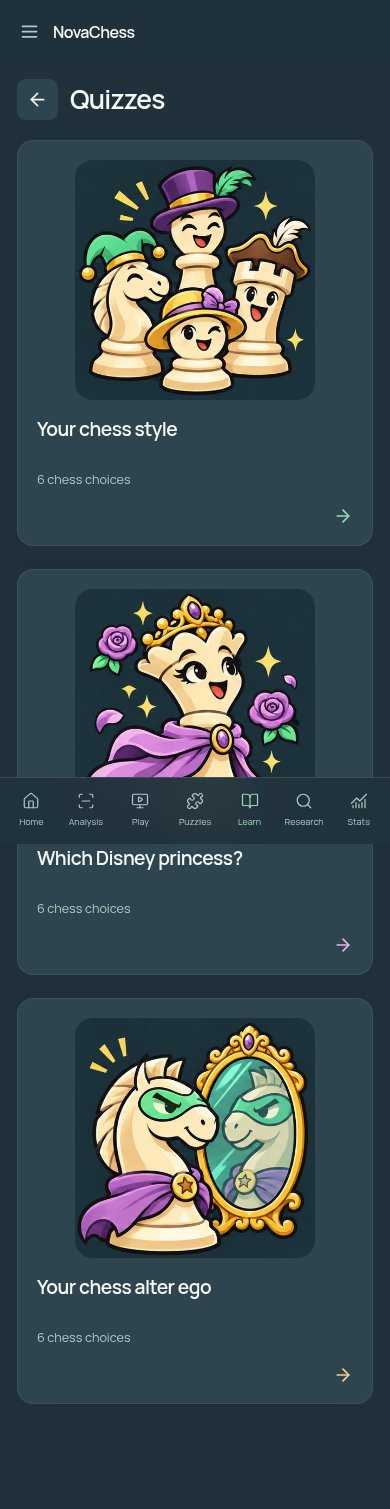
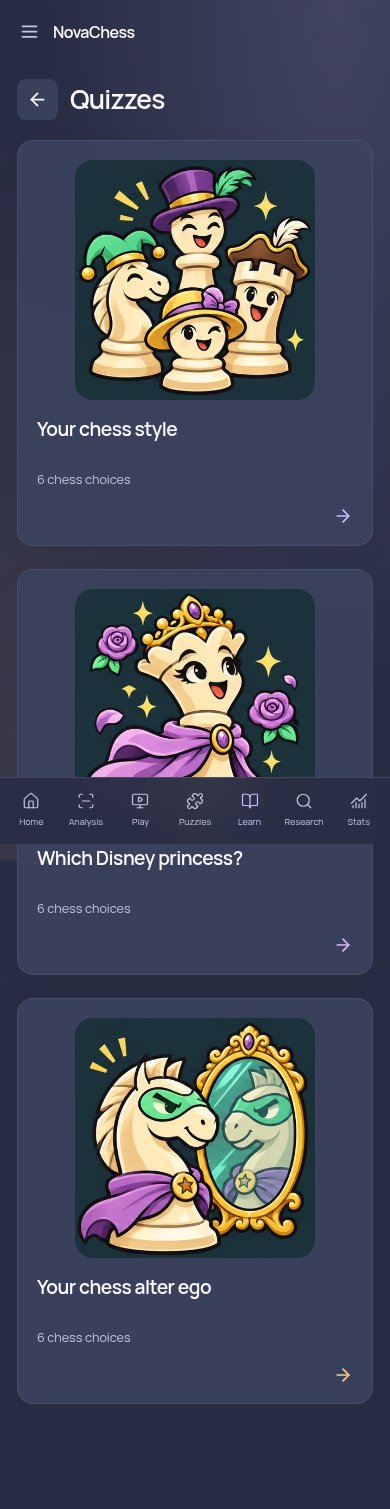
Refresh default theme with periwinkle and apricot accents

diff --git a/src/main.tsx b/src/main.tsx
@@ -259,26 +259,52 @@ function App() {
   }, [appearance.sound, appearance.volume]);
   useEffect(() => {
     setAppearance((a) =>
-      a.backgroundColor === "#80350d"
-        ? { ...a, backgroundColor: defaults.backgroundColor }
-        : ["#101418", "#101612", "#19262e"].includes(a.backgroundColor) &&
-            ["#1b2126", "#1c271f", "#263840"].includes(a.panelColor) &&
-            ["#f0f3f1", "#eef4ed", "#f4f8f5"].includes(a.textColor) &&
-            ["#a6b0aa", "#abb8aa", "#b5c8c5"].includes(a.mutedColor)
-          ? {
-              ...a,
-              backgroundColor: defaults.backgroundColor,
-              panelColor: defaults.panelColor,
-              textColor: defaults.textColor,
-              mutedColor: defaults.mutedColor,
-              accent: a.accent === "#78b58a" ? defaults.accent : a.accent,
-              buttonColor:
-                a.buttonColor === "#78b58a"
-                  ? defaults.buttonColor
-                  : a.buttonColor,
-              font: a.font === "DM Sans" ? defaults.font : a.font,
-            }
-          : a,
+      a.background === "Default" &&
+      a.backgroundColor === "#20313b" &&
+      a.panelColor === "#304651" &&
+      a.textColor === "#f4f8f5" &&
+      a.mutedColor === "#b5c8c5"
+        ? {
+            ...a,
+            backgroundColor: defaults.backgroundColor,
+            panelColor: defaults.panelColor,
+            textColor: defaults.textColor,
+            mutedColor: defaults.mutedColor,
+            theme:
+              a.theme === "Forest" && a.accent === "#96d9b8"
+                ? defaults.theme
+                : a.theme,
+            accent:
+              a.theme === "Forest" && a.accent === "#96d9b8"
+                ? defaults.accent
+                : a.accent,
+            buttonColor:
+              a.theme === "Forest" &&
+              a.accent === "#96d9b8" &&
+              a.buttonColor === "#96d9b8"
+                ? defaults.buttonColor
+                : a.buttonColor,
+          }
+        : a.backgroundColor === "#80350d"
+          ? { ...a, backgroundColor: defaults.backgroundColor }
+          : ["#101418", "#101612", "#19262e"].includes(a.backgroundColor) &&
+              ["#1b2126", "#1c271f", "#263840"].includes(a.panelColor) &&
+              ["#f0f3f1", "#eef4ed", "#f4f8f5"].includes(a.textColor) &&
+              ["#a6b0aa", "#abb8aa", "#b5c8c5"].includes(a.mutedColor)
+            ? {
+                ...a,
+                backgroundColor: defaults.backgroundColor,
+                panelColor: defaults.panelColor,
+                textColor: defaults.textColor,
+                mutedColor: defaults.mutedColor,
+                accent: a.accent === "#78b58a" ? defaults.accent : a.accent,
+                buttonColor:
+                  a.buttonColor === "#78b58a"
+                    ? defaults.buttonColor
+                    : a.buttonColor,
+                font: a.font === "DM Sans" ? defaults.font : a.font,
+              }
+            : a,
     );
   }, []);
   useEffect(() => {

diff --git a/tests/theme-refresh.spec.ts b/tests/theme-refresh.spec.ts
@@ -1,0 +1,65 @@
+import { test, expect } from "@playwright/test";
+const previous = {
+  theme: "Forest",
+  background: "Default",
+  backgroundColor: "#20313b",
+  panelColor: "#304651",
+  textColor: "#f4f8f5",
+  mutedColor: "#b5c8c5",
+  accent: "#96d9b8",
+  buttonColor: "#96d9b8",
+  board: "Rose",
+  light: "#f5dfe4",
+  dark: "#a85d77",
+  premoves: false,
+};
+test("returning users receive the refreshed default palette while keeping board and game preferences", async ({
+  page,
+}) => {
+  await page.addInitScript(
+    (a) => localStorage.setItem("novachess-appearance-v2", JSON.stringify(a)),
+    previous,
+  );
+  await page.goto("/");
+  await expect(page.locator(".app")).toHaveCSS("--base", "#292d43");
+  await expect(page.locator(".app")).toHaveCSS("--accent", "#c7c1ff");
+  await expect(page.locator(".app")).toHaveCSS("--button", "#f1bb98");
+  await expect
+    .poll(() =>
+      page.evaluate(
+        () =>
+          JSON.parse(localStorage.getItem("novachess-appearance-v2") || "{}")
+            .theme,
+      ),
+    )
+    .toBe("Periwinkle");
+  const saved = await page.evaluate(() =>
+    JSON.parse(localStorage.getItem("novachess-appearance-v2") || "{}"),
+  );
+  expect(saved.board).toBe("Rose");
+  expect(saved.premoves).toBe(false);
+});
+test("custom colors and uploaded backgrounds remain unchanged", async ({
+  page,
+}) => {
+  const custom = {
+    ...previous,
+    theme: "Ocean",
+    background: "Custom",
+    backgroundColor: "#24243a",
+    panelColor: "#41415b",
+    accent: "#72b2ff",
+    buttonColor: "#ffe0a0",
+  };
+  await page.addInitScript(
+    (a) => localStorage.setItem("novachess-appearance-v2", JSON.stringify(a)),
+    custom,
+  );
+  await page.goto("/");
+  await expect(page.locator(".app")).toHaveCSS(
+    "--base",
+    custom.backgroundColor,
+  );
+  await expect(page.locator(".app")).toHaveCSS("--accent", custom.accent);
+  await expect(page.locator(".app")).toHaveCSS("--button", custom.buttonColor);
+});

diff --git a/tests/website.spec.ts b/tests/website.spec.ts
@@ -36,7 +36,7 @@ test("dark Home provides tools, has no clock/camera/slogans, and fits responsive
   await expect(page.getByRole("link", { name: /Daily puzzle/ })).toBeVisible();
   await expect(page.locator(".app")).toHaveCSS(
     "background-color",
-    "rgb(32, 49, 59)",
+    "rgb(41, 45, 67)",
   );
   await expect(
     page.getByRole("heading", { name: /Your next move|A little brighter/ }),
@@ -110,7 +110,7 @@ test("appearance themes, custom colors, board/pieces/layout persist and presets 
     .getByRole("dialog", { name: "Appearance" })
     .getByRole("button", { name: "Reset appearance", exact: true })
     .click();
-  await expect(page.locator(".app")).toHaveCSS("--accent", "#96d9b8");
+  await expect(page.locator(".app")).toHaveCSS("--accent", "#c7c1ff");
 });
 
 test("uploaded backgrounds stay local and can be removed", async ({ page }) => {

diff --git a/src/lib/store.ts b/src/lib/store.ts
@@ -5,6 +5,7 @@ export const base = import.meta.env.BASE_URL;
 export const initialFen =
   "rnbqkbnr/pppppppp/8/8/8/8/PPPPPPPP/RNBQKBNR w KQkq - 0 1";
 export const themes: Record<string, string> = {
+  Periwinkle: "#c7c1ff",
   Forest: "#96d9b8",
   Pink: "#ef7eb6",
   Ocean: "#72b2ff",
@@ -54,14 +55,14 @@ export const backgrounds = [
   "Flag",
 ];
 export const defaults: Appearance = {
-  theme: "Forest",
+  theme: "Periwinkle",
   background: "Default",
-  backgroundColor: "#20313b",
-  accent: "#96d9b8",
-  buttonColor: "#96d9b8",
-  textColor: "#f4f8f5",
-  mutedColor: "#b5c8c5",
-  panelColor: "#304651",
+  backgroundColor: "#292d43",
+  accent: "#c7c1ff",
+  buttonColor: "#f1bb98",
+  textColor: "#fbf8ff",
+  mutedColor: "#c6c7dc",
+  panelColor: "#3b425d",
   board: "Classic",
   light: boards.Classic[0],
   dark: boards.Classic[1],

diff --git a/src/redesign.css b/src/redesign.css
@@ -3882,3 +3882,14 @@ select.theme-select {
 .quiz-result .quiz-picture-result {
   align-self: center;
 }
+
+/* Gentle color across the default workspace, using the user's palette. */
+.bg-default .site-background {
+  background:
+    radial-gradient(ellipse at 85% 0%, color-mix(in srgb, var(--accent) 16%, transparent), transparent 60%),
+    radial-gradient(ellipse at 5% 85%, color-mix(in srgb, var(--button) 9%, transparent), transparent 58%),
+    var(--base);
+}
+.bg-default .topbar {
+  background: transparent;
+}

diff --git a/index.html b/index.html
@@ -3,7 +3,7 @@
   <head>
     <meta charset="UTF-8" />
     <meta name="viewport" content="width=device-width, initial-scale=1.0" />
-    <meta name="theme-color" content="#20313b" />
+    <meta name="theme-color" content="#292d43" />
     <meta
       name="description"
       content="Chess analysis, computer play, 4,000 puzzles, opening and endgame training in a customizable local workspace."

diff --git a/src/styles.css b/src/styles.css
@@ -2,7 +2,7 @@
   font-family: "DM Sans", sans-serif;
   color-scheme: dark;
   font-synthesis: none;
-  background: #20313b;
+  background: #292d43;
 }
 * {
   box-sizing: border-box;

diff --git a/docs/VALIDATION.md b/docs/VALIDATION.md
@@ -1,5 +1,6 @@
 # Validation
 
+- Theme refresh: 12 targeted desktop/mobile checks passed, including returning-user palette migration, preserved custom colors/backgrounds, reset behavior and accessibility. Production Home, Play, Analysis, Puzzles, Learn, Stats and Profile also passed desktop/mobile accessibility and overflow checks.
 - TypeScript and Vite production build: passed. The offline cache contains 430 local assets.
 - Full desktop/mobile Chromium suite: 143 scenarios passed in one run; one desktop-only layout check is intentionally skipped on mobile.
 - Node rules/content/database/federation suite: all 34 tests passed.
